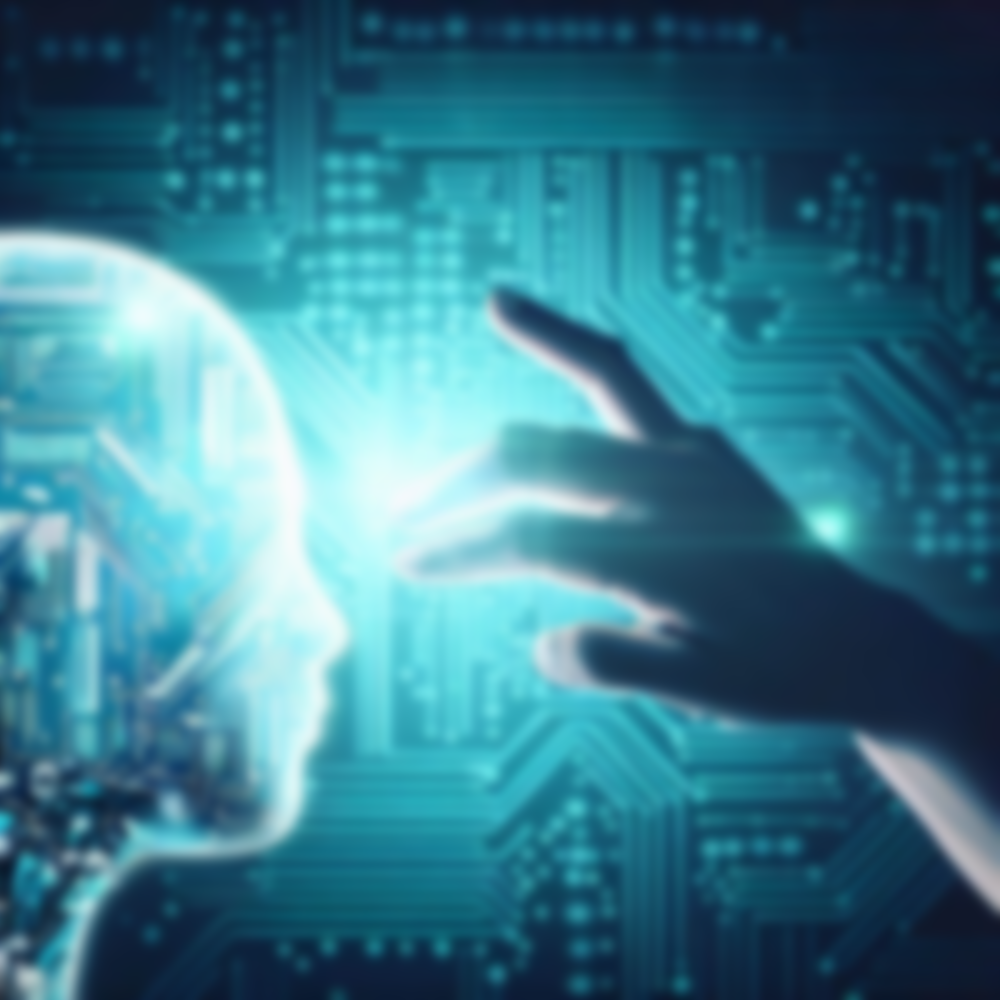
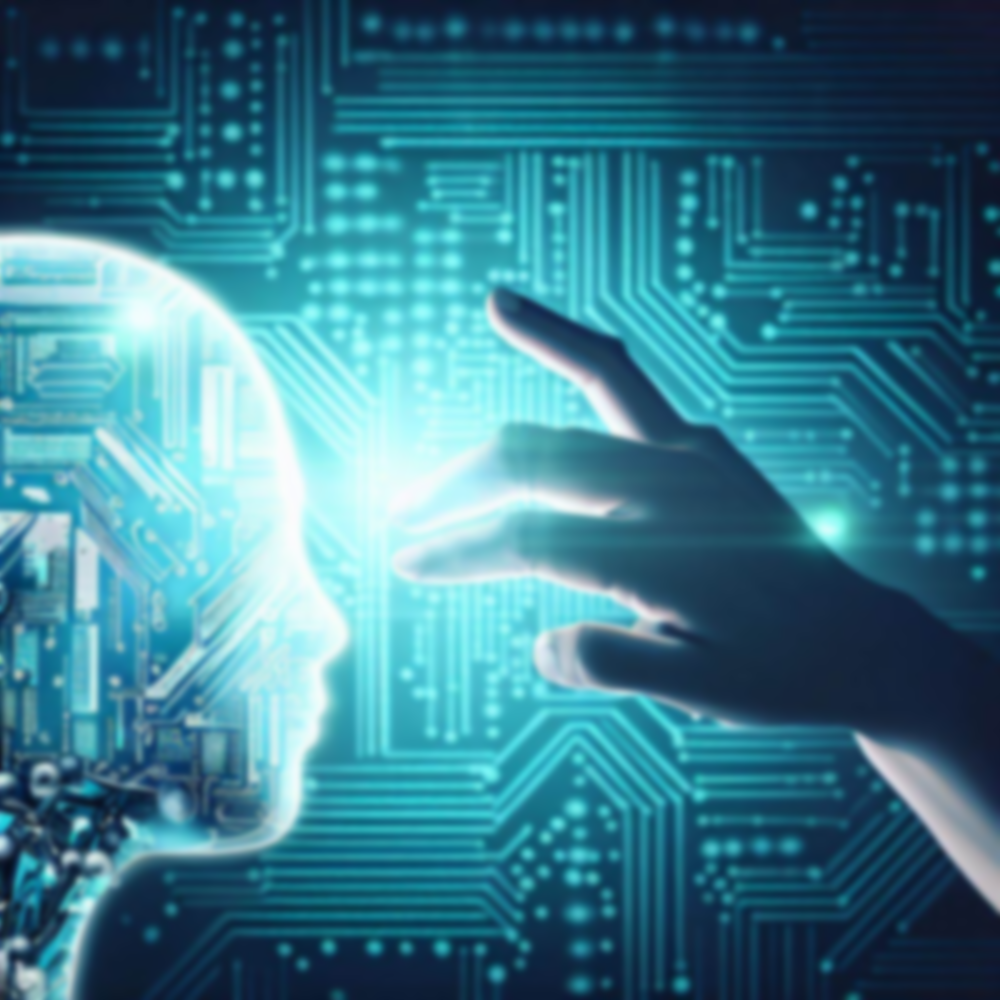
Update

diff --git a/js/main.js b/js/main.js
@@ -73,7 +73,22 @@ function menu() {
 }
 
 function header() {
-  header_b.style.height = document.getElementById("h").clientHeight + "px";
+  var vw = document.documentElement.clientWidth;
+  var vh = document.documentElement.clientHeight;
+  var header = document.getElementById("h").clientHeight;
+  var top = (vh-header);
+  var img = t.getElementsByTagName("img")[0];
+  header_b.style.height = header + "px";
+  t.style.height = top + "px";
+  if (vw/vh > 1) {
+    img.style.width = vw + "px";
+    img.style.height = "auto";
+  }
+  else {
+    img.style.width = "auto";
+    img.style.height = "top";
+  }
+
 }
 
 
@@ -84,7 +99,7 @@ window.addEventListener("pageshow", () => {
     o_Filter.classList.add("load");
   }, 300);
   setTimeout(load3, 200);
-  setTimeout(header, 240);
+  setTimeout(header, 300);
   setTimeout(scroll, 500);
 });
 

diff --git a/css/main.css b/css/main.css
@@ -515,22 +515,25 @@ header {
 	right: 0;
 }
 
-.top {
+#t {
   position: relative;
   width: 100%;
-  height: fit-content;
-  max-height: max(40rem, 50vh);
+  height: auto;
   background-color: #000000;
   overflow: hidden;
 }
 
-.top img {
+#t img {
+  position: absolute;
+  top: 50%;
+  left: 50%;
   width: 100%;
-  height: auto;
+  height: 100%;
+  transform: translate(-50%, -50%);
   opacity: 0.8;
 }
 
-.top h1 {
+#t h1 {
   position: absolute;
   top: 50%;
   left: 50%;

diff --git a/index.html b/index.html
@@ -97,7 +97,7 @@
 
     <div class="main">
       <div id="header_b"></div>
-      <figure class="top">
+      <figure id="t">
         <img src="img/img.png">
         <h1>FUTURE of AI.</h1>
       </figure>
